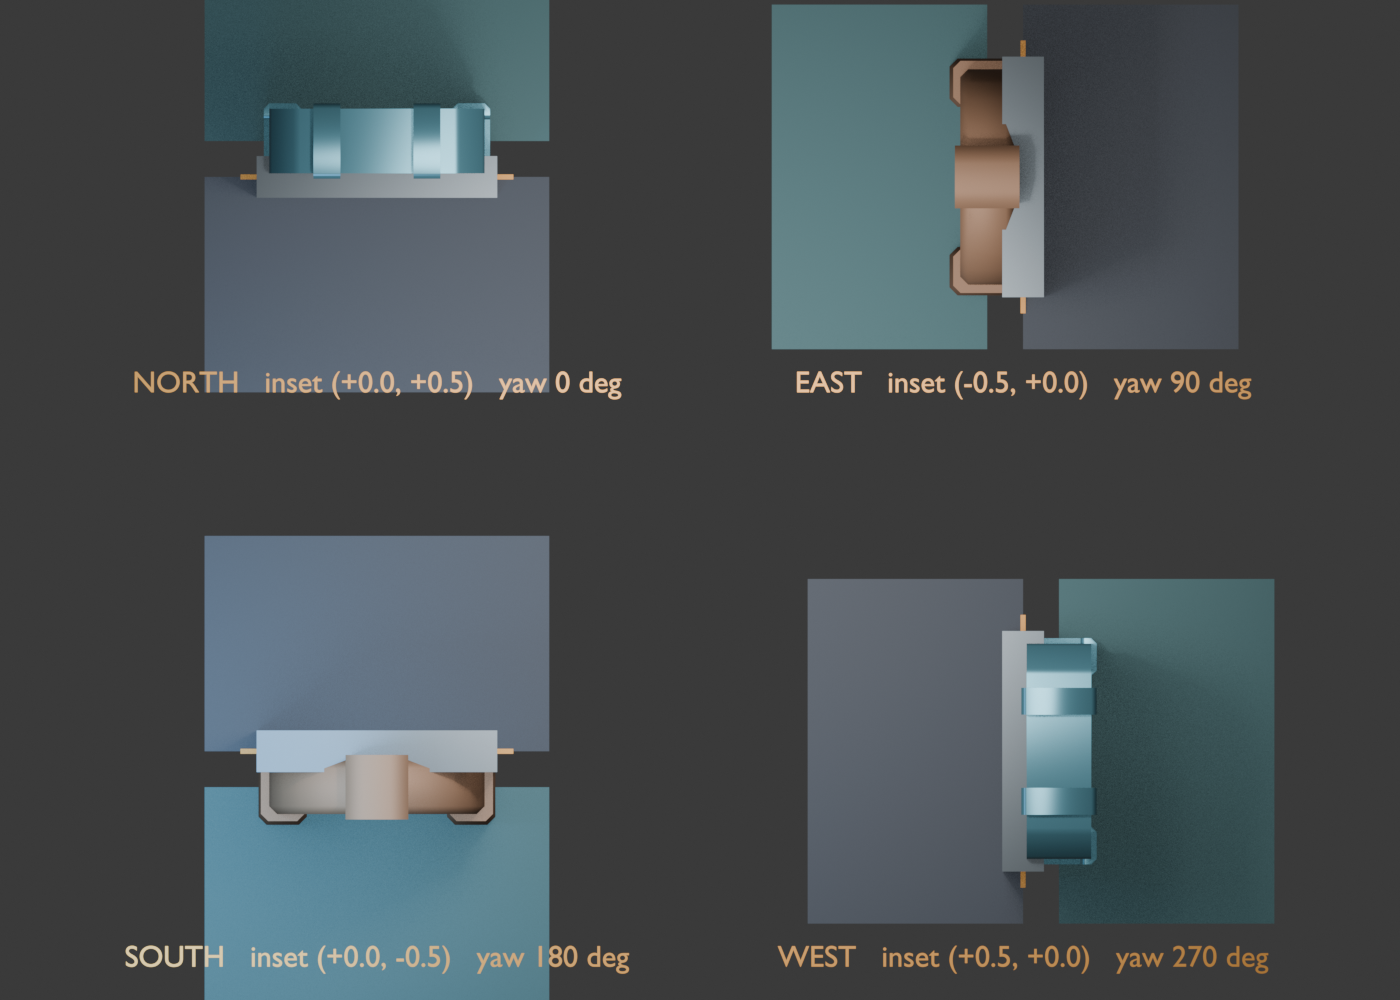
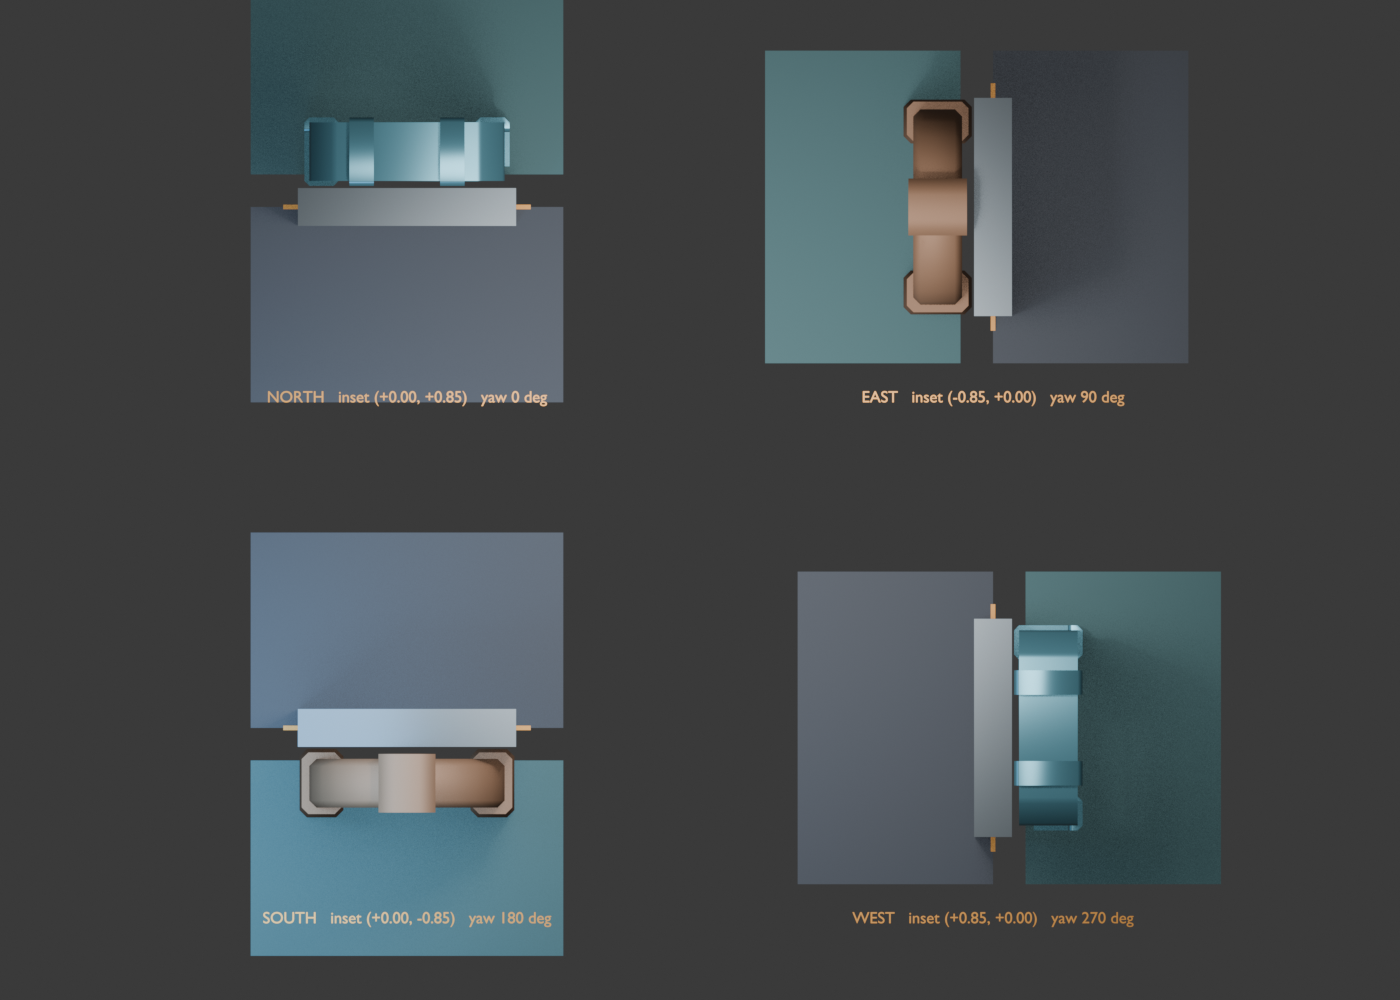
fix(world): harden gateway evidence and legacy eligibility (M1)

diff --git a/src/threeGame.js b/src/threeGame.js
@@ -1706,20 +1706,27 @@ const STRUCTURAL_GATEWAY_PATTERN = /(^|[_-])(gate|gateway|bulkhead|archway|porta
  * so layering another frame there would obscure state and duplicate architecture.
  */
 export function isRoomGatewayFrameEligible(room, door, metadata = {}) {
-    if (!room || !door?.id || !door?.cells?.length || metadata.ringCrossingId) return false;
-    const runtimeDoor = (metadata.doors ?? []).find((candidate) => candidate?.id === door.id);
+    if (!room || !door?.cells?.length || metadata.ringCrossingId) return false;
+    const runtimeDoor = door.id == null
+        ? null
+        : (metadata.doors ?? []).find((candidate) => candidate?.id === door.id);
     if (
         runtimeDoor?.lock
         || runtimeDoor?.gateId
         || runtimeDoor?.ringCrossingId
-        || (metadata.gates ?? []).some((gate) => gate?.doorId === door.id)
+        || (door.id != null && (metadata.gates ?? []).some((gate) => gate?.doorId === door.id))
     ) return false;
 
     const roomBuild = room.roomBuild ?? {};
+    const structuralAnchors = [
+        ...(room.structuralAnchors ?? []),
+        ...(roomBuild.structuralAnchors ?? []),
+        ...(room.contentPlan?.structural ?? [])
+    ];
     if (
-        roomBuild.family === 'gate'
+        String(roomBuild.family ?? '').toLowerCase() === 'gate'
         || STRUCTURAL_GATEWAY_PATTERN.test(String(roomBuild.id ?? ''))
-        || (room.structuralAnchors ?? roomBuild.structuralAnchors ?? []).some((anchor) => (
+        || structuralAnchors.some((anchor) => (
             STRUCTURAL_GATEWAY_PATTERN.test(String(anchor?.id ?? ''))
             || STRUCTURAL_GATEWAY_PATTERN.test(String(anchor?.type ?? ''))
             || STRUCTURAL_GATEWAY_PATTERN.test(String(anchor?.role ?? ''))

diff --git a/src/threeGame.roomSetPieces.test.js b/src/threeGame.roomSetPieces.test.js
@@ -121,7 +121,8 @@ describe('createChunkSetPiecePlacements — room-gated set dressing', () => {
     it.each([
         ['locked procedural gate', { doors: [{ id: 'entry', lock: { type: 'power' } }] }, {}],
         ['ring crossing', { ringCrossingId: 'ring-2' }, {}],
-        ['authored structural gateway', {}, { roomBuild: { id: 'ring_crossing_landmark', family: 'gate' } }]
+        ['authored structural gateway', {}, { roomBuild: { id: 'ring_crossing_landmark', family: 'gate' } }],
+        ['content-plan bulkhead', {}, { contentPlan: { structural: [{ type: 'arch_bulkhead_frame' }] } }]
     ])('does not double-frame a %s', (_label, metadata, roomPatch) => {
         const door = { id: 'entry', side: 'n', cells: [{ x: 7, y: 2 }] };
         const room = { id: 'room', doors: [door], populationPlan: { placements: [] }, ...roomPatch };
@@ -134,6 +135,11 @@ describe('createChunkSetPiecePlacements — room-gated set dressing', () => {
             game, 0, 0, buildTwoBlockGrid(17)
         );
         expect(placements.some(({ scatterKey }) => scatterKey.startsWith('room-gateway:'))).toBe(false);
+    });
+
+    it('keeps an ordinary legacy door without an id eligible for a presentation frame', () => {
+        const door = { side: 'w', cells: [{ x: 2, y: 4 }, { x: 2, y: 5 }, { x: 2, y: 6 }] };
+        expect(isRoomGatewayFrameEligible({ id: 'legacy-room', doors: [door] }, door)).toBe(true);
     });
 
     it('turns hallway route markers into biome-skinned, cardinal kit architecture', () => {

diff --git a/scripts/blender/render_gateway_orientation_report.py b/scripts/blender/render_gateway_orientation_report.py
@@ -13,6 +13,13 @@ from mathutils import Vector
 ROOT = Path(__file__).resolve().parents[2]
 OUTPUT = ROOT / "docs/reports/assets/sprint-49/gateway-cardinal-alignment.png"
 KIT_SCALE = 0.75
+GATE_MODEL_HALF_DEPTH = 0.7
+PROCEDURAL_DOOR_SLAB_THICKNESS = 0.58
+GATEWAY_ROOM_INSET = (
+    GATE_MODEL_HALF_DEPTH * KIT_SCALE
+    + PROCEDURAL_DOOR_SLAB_THICKNESS / 2
+    + 0.035
+)
 
 bpy.ops.wm.read_factory_settings(use_empty=True)
 
@@ -95,8 +102,8 @@ def add_panel(side, origin, gate_path, offset, yaw_steps, surface):
     gate_xy = Vector((ox, oy)) + Vector(offset)
     import_gate(gate_path, f"{side} open kit frame", gate_xy, yaw_steps, surface)
     add_label(
-        f"{side}   inset ({offset[0]:+.1f}, {offset[1]:+.1f})   yaw {yaw_steps * 90} deg",
-        (ox, oy - 3.0, 3.35),
+        f"{side}   inset ({offset[0]:+.2f}, {offset[1]:+.2f})   yaw {yaw_steps * 90} deg",
+        (ox, oy - 3.0, 3.35), 0.25,
     )
 
 
@@ -106,10 +113,10 @@ world.color = (0.012, 0.015, 0.02)
 
 space_gate = ROOT / "public/3d/runtime/kits/modular-space-kit/gate.glb"
 cave_gate = ROOT / "public/3d/runtime/kits/modular-cave-kit/gate.glb"
-add_panel("NORTH", (-4.5, 4.0), space_gate, (0.0, 0.5), 0, SPACE_GATE_MAT)
-add_panel("EAST", (4.5, 4.0), cave_gate, (-0.5, 0.0), 1, CAVE_GATE_MAT)
-add_panel("SOUTH", (-4.5, -4.0), cave_gate, (0.0, -0.5), 2, CAVE_GATE_MAT)
-add_panel("WEST", (4.5, -4.0), space_gate, (0.5, 0.0), 3, SPACE_GATE_MAT)
+add_panel("NORTH", (-4.5, 4.0), space_gate, (0.0, GATEWAY_ROOM_INSET), 0, SPACE_GATE_MAT)
+add_panel("EAST", (4.5, 4.0), cave_gate, (-GATEWAY_ROOM_INSET, 0.0), 1, CAVE_GATE_MAT)
+add_panel("SOUTH", (-4.5, -4.0), cave_gate, (0.0, -GATEWAY_ROOM_INSET), 2, CAVE_GATE_MAT)
+add_panel("WEST", (4.5, -4.0), space_gate, (GATEWAY_ROOM_INSET, 0.0), 3, SPACE_GATE_MAT)
 
 add_label("SPRINT 49 M1 — SHIPPED GATE GLBs + AUTHORITATIVE DOOR SLABS", (0, 9.0, 3.35), 0.52)
 add_label("teal = room side     orange = threshold     charcoal = corridor", (0, 8.35, 3.35), 0.34)
@@ -127,7 +134,7 @@ bpy.context.object.data.size = 7
 bpy.ops.object.camera_add(location=(0, -0.5, 22), rotation=(0, 0, 0))
 camera = bpy.context.object
 camera.data.type = "ORTHO"
-camera.data.ortho_scale = 19.5
+camera.data.ortho_scale = 21.5
 camera.rotation_euler = (0, 0, 0)
 camera.rotation_euler.x = 0
 # Cameras look down local -Z; identity rotation gives a deterministic plan view.

diff --git a/docs/planning/sprint-49-lived-in-world-continuation.md b/docs/planning/sprint-49-lived-in-world-continuation.md
@@ -36,6 +36,16 @@ plan for milestone scope, dependencies, verification gates, and definition of do
 
 ## Commit record
 
+### Next commit — M1 evidence and compatibility hardening
+
+- Regenerate the committed four-side overview plate with the measured 0.85-unit
+  room inset from `8fb9d2a8`; the current plate still shows the rejected 0.5-unit
+  intermediate even though the closed/open Playwright captures are correct.
+- Keep legacy room doors without IDs eligible for ordinary presentation frames,
+  while also recognizing structural gateway declarations carried by `contentPlan`.
+- Add focused eligibility tests, run the M1 test set and `git diff --check`, and
+  stage only the journal, overview renderer/capture, helper, and its test.
+
 ### M1 — cardinal gateway truth
 
 - Measure the shipped cave and space `gate.glb` bounds at the shared kit scale,
